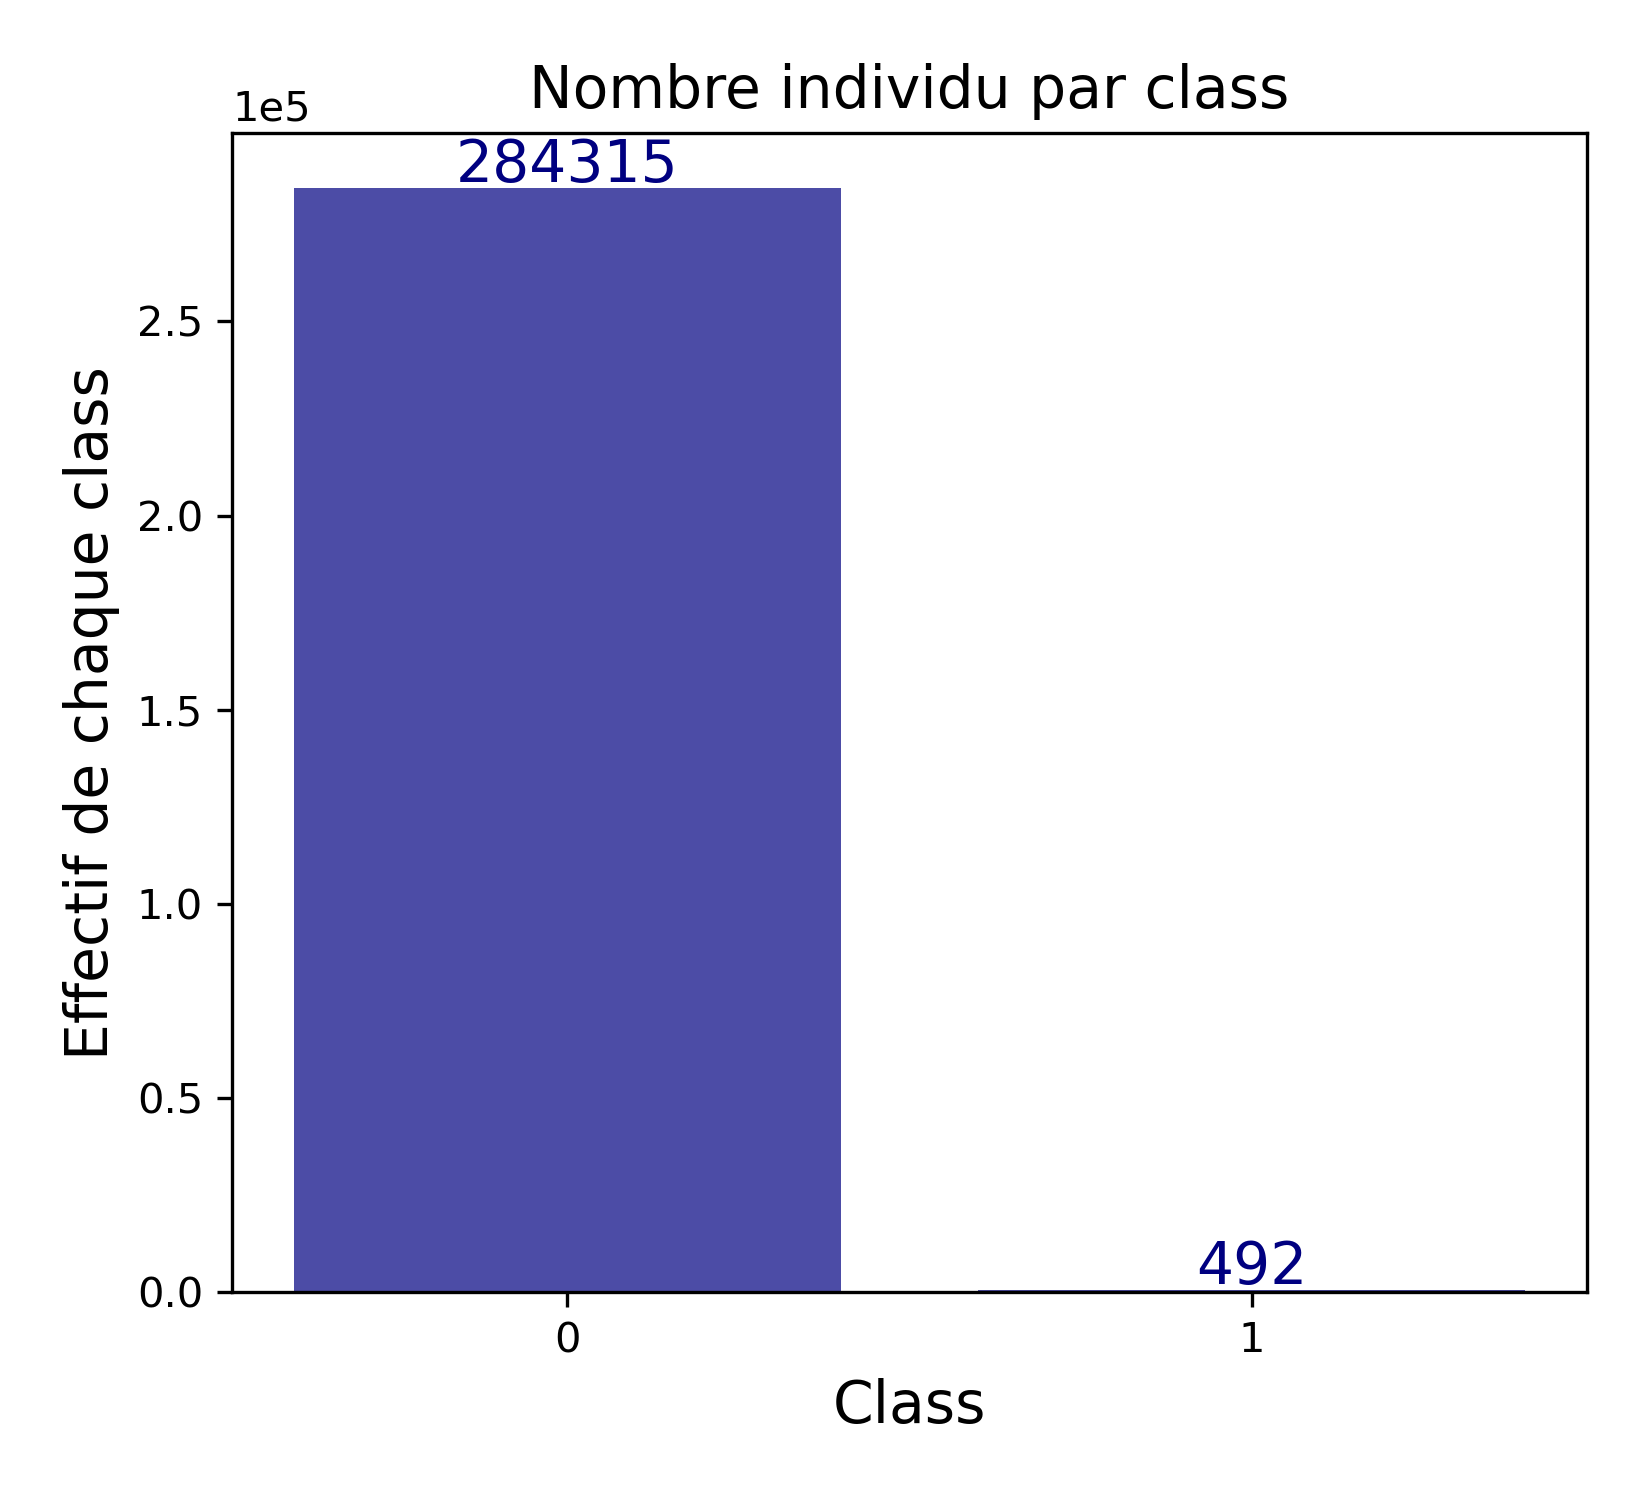
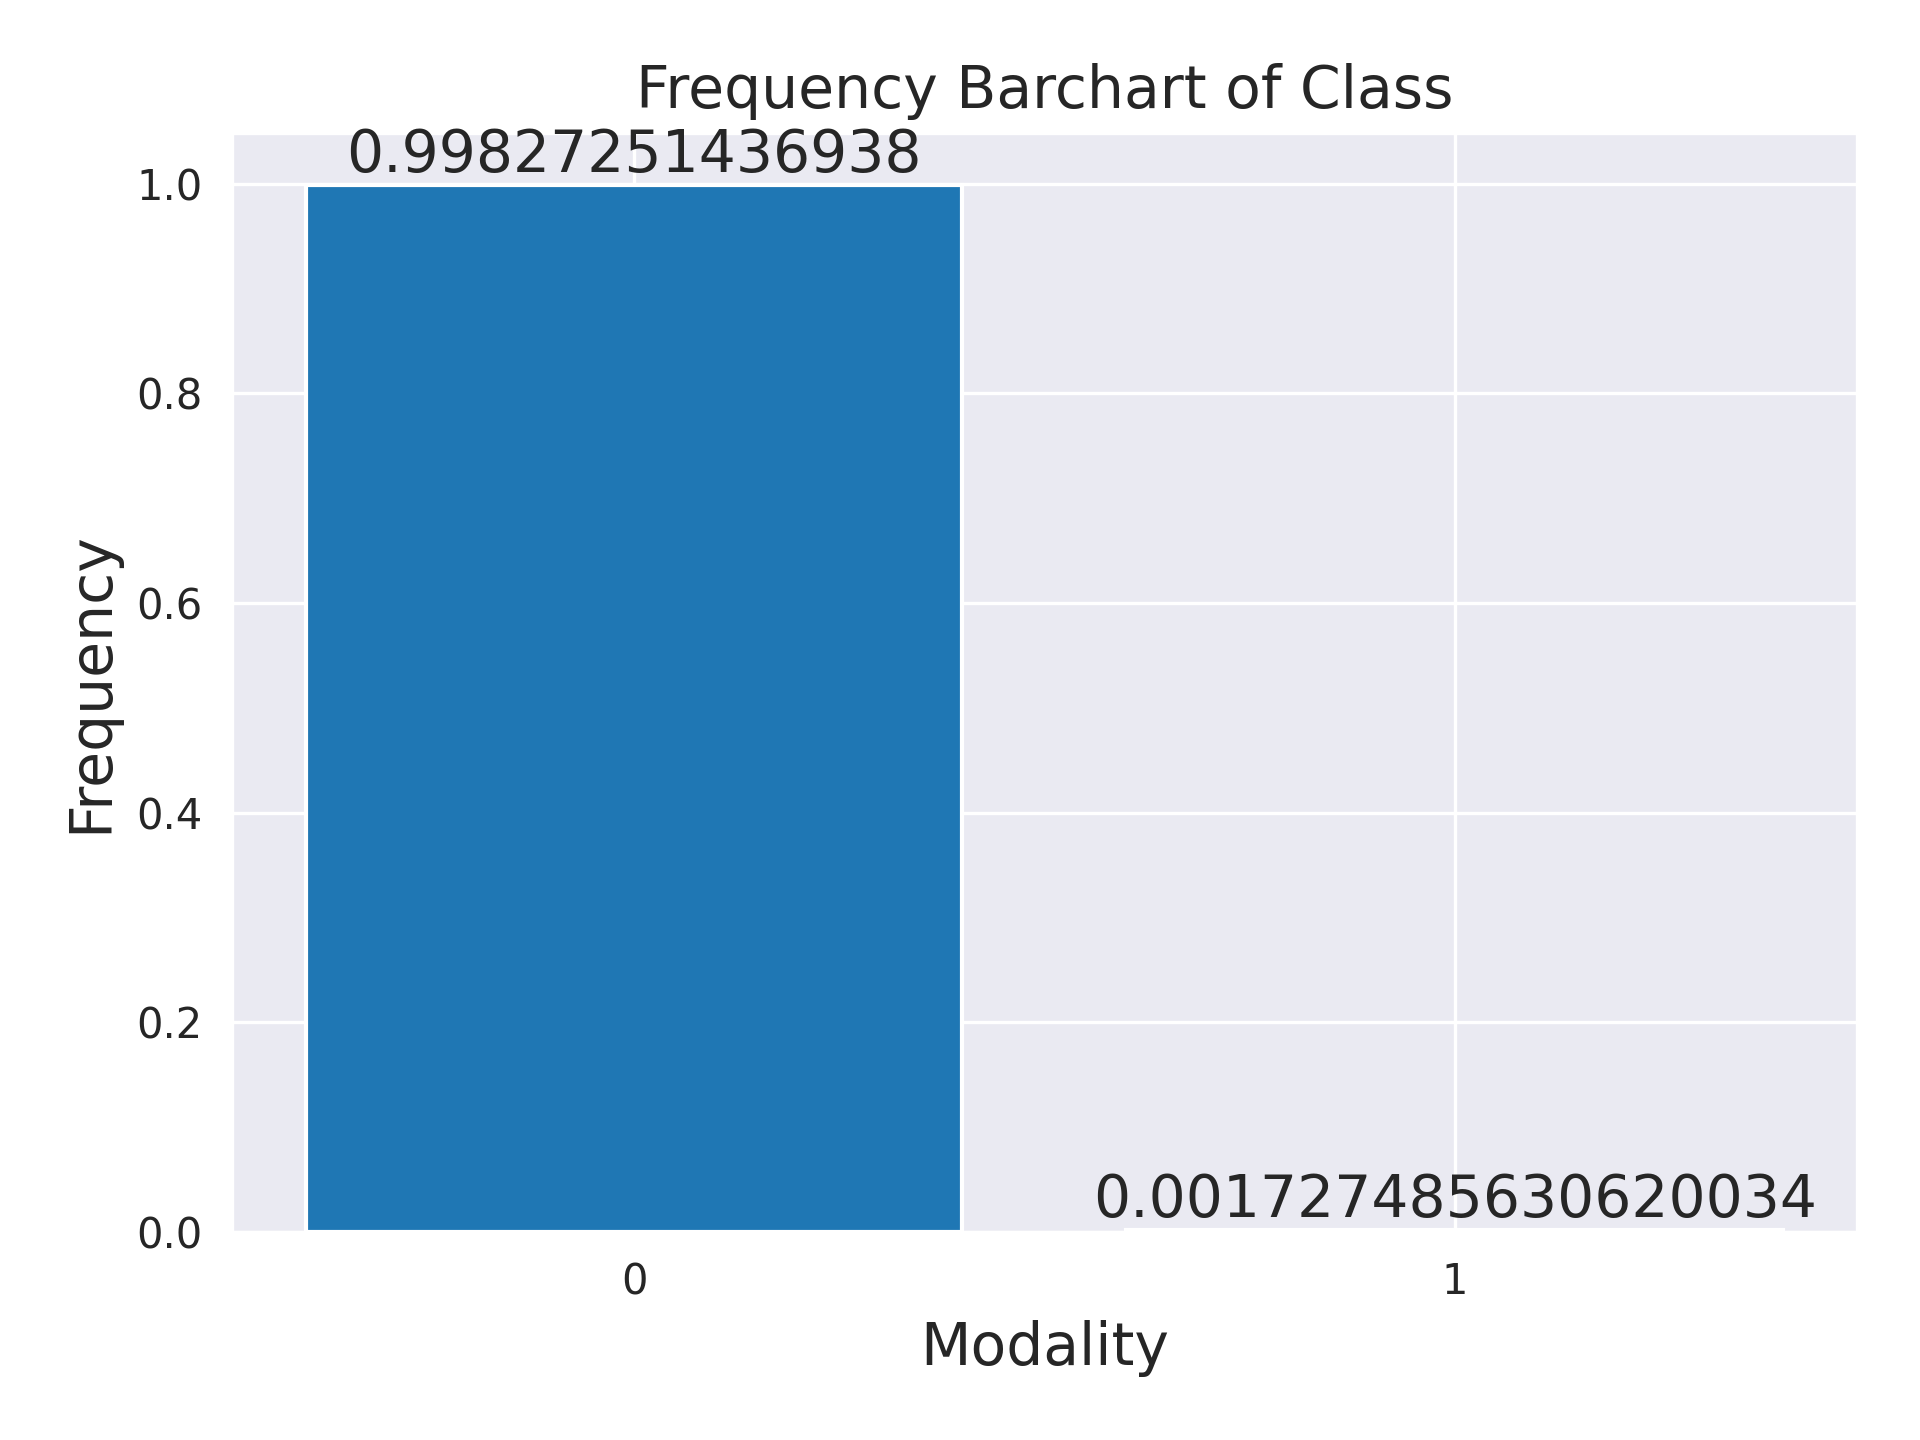
complement

Changed region(s): [[0.0309, 0.0312, 0.9582, 0.9062], [0.4636, 0.9062, 0.6182, 0.9688]]

diff --git a/src/core/Analyser.py b/src/core/Analyser.py
@@ -5,6 +5,7 @@ from sklearn.compose import make_column_selector as selector
 from matplotlib.axes._axes import Axes
 import seaborn as sns
 from scipy.stats import chi2_contingency
+from matplotlib.ticker import FuncFormatter
 
 
 class Analyser:
@@ -15,30 +16,63 @@ class Analyser:
             self,
             df_c: pd.DataFrame
     ) -> dict:
-        qualitatives = selector(dtype_include=object)(df_c)
+        qualitative_features = selector(dtype_include=object)(df_c)
 
-        return {"features":
+        return \
             {
-                "qualitative_columns": qualitatives, \
-                "quantitative_columns": [c for c in df_c if c not in qualitatives]
-            },
-            "describe": df_c.describe(),
-        }
+                "features":
+                    {
+                        "qualitative_columns": qualitative_features,
+                        "quantitative_columns":
+                            [c for c in df_c if c not in qualitative_features]
+                    },
+                "describe": df_c.describe(),
+            }
 
-    def bar_chart(self, df_c: pd.DataFrame, col_name, ax: Axes, with_proportion=False) -> object:
+    def bar_chart(
+            self,
+            df_c: pd.DataFrame,
+            col_name,
+            ax: Axes,
+            with_proportion=False
+    ) -> object:
         summary = self.summary(df_c)
         if not col_name in summary["features"]["qualitative_columns"]:
-            raise Exception(f"{col_name} should be a qualitative colums from {df_c}")
+            raise Exception(f"{col_name} should be a qualitative columns from {df_c}")
         cats_heights = df_c[col_name].value_counts()
         weight = 1 if not with_proportion else 1 / cats_heights.sum()
         cats_heights *= weight
         ax.bar(cats_heights.index, cats_heights.values)
-        ax.set_title(f"Frequency Barchart of {col_name}")
+        ax.xaxis.set_major_formatter(FuncFormatter(lambda x, pos: cats_heights.index[int(x)]))
+
+        y_label = 'Frequency' if with_proportion else 'Counts'
+
+        ax.set_title(f'{y_label} Barchart of {col_name}')
         ax.set_xlabel("Modality")
-        ax.set_ylabel("Frequency")
+        ax.set_ylabel(f'{y_label}')
+
+        # we use ax.set_xticks and pass in a range of integers from 0 to the length of counts.
+        ax.set_xticks(range(len(cats_heights)))
+        # we use ax.set_xticklabels and pass in the index values from counts.
+        # This sets the tick labels to be the same as the original index values in counts.
+        ax.set_xticklabels(cats_heights.index)
+
+        # pour des labels plus compacts
+        ax.ticklabel_format(axis='y', scilimits=(1, 4))
+
+        # annotations
+        for i, j in enumerate(cats_heights):
+            ax.text(i, j+max(cats_heights.values)/80, cats_heights.iloc[i], ha='center')
+
         return cats_heights
 
-    def prop_churn_by_cats(self, df_c: pd.DataFrame, outcome: str, cats_name: str, loc="upper right") -> None:
+    def prop_churn_by_cats(
+            self,
+            df_c: pd.DataFrame,
+            outcome: str,
+            cats_name: str,
+            loc="upper right"
+    ) -> None:
         summary = self.summary(df_c)
         if not cats_name in summary["features"]["qualitative_columns"] or \
                 not outcome in summary["features"]["qualitative_columns"]:
@@ -79,7 +113,8 @@ class Analyser:
             label=[positive_mod, f"Not {positive_mod}"],
             color=["blue", "black"],
             density=density,
-            stacked=True)
+            stacked=True
+        )
         ax.set_title(f"histogram of {numericals_name} conditioned by {outcome}")
         ax.set_ylabel("Density" if density == True else "Count")
         ax.legend(loc=loc)
@@ -95,12 +130,17 @@ class Analyser:
         summary = self.summary(df_c)
         if not numericals_name in summary["features"]["quantitative_columns"] or \
                 not outcome in summary["features"]["qualitative_columns"]:
-            raise Exception(f"{outcome} should be a qualitative columns  and \
-                {numericals_name} should be a quantitative column from {df_c}")
+            raise Exception(
+                f"{outcome} should be a qualitative columns  and \
+                {numericals_name} should be a quantitative column from {df_c}"
+            )
+
         mask_churn = df_c[outcome] == positive_mod
         churn = df_c.loc[mask_churn][numericals_name].copy()
         non_churn = df_c.loc[~mask_churn][numericals_name].copy()
+
         ax.boxplot([np.array(churn).reshape(-1), np.array(non_churn).reshape(-1)])
+
         ax.set_xticklabels([positive_mod, f"Not{positive_mod}"])
         ax.set_title(f"Boxplot of {numericals_name} conditioned by {outcome}")
 

diff --git a/src/core/Processing.py b/src/core/Processing.py
@@ -33,13 +33,35 @@ class Processing:
             self,
             df: pd.DataFrame
     ) -> dict:
-        constant_features = [c for c in df.columns if df[c].min() == df[c].max()]
-        return {
-            "Missing Values": df.isna().sum(),
-            "Constant Features": constant_features
-        }
+        """
+        function that give an overview of missing value and constant features
+        :param df:
+        :return:
+            dictionary {
+            column : number of missing value
+            constant features : [list of features]
+            }
 
-    def remove_constant_features(self, df: pd.DataFrame) -> pd.DataFrame:
+        """
+
+        # simple mathematical rule checking
+        constant_features = [c for c in df.columns if df[c].min() == df[c].max()]
+        return \
+            {
+                "Missing Values": df.isna().sum(),
+                "Constant Features": constant_features
+            }
+
+    def remove_constant_features(
+            self,
+            df: pd.DataFrame
+    ) -> pd.DataFrame:
+        """
+        function help to remove if required constant features
+        :param df:
+        :return:
+            new dqta frame
+        """
         return df[[c for c in df.columns if c not in self.summary(df)["Constant Features"]]]
 
     def remove_outliers(
@@ -47,11 +69,27 @@ class Processing:
             df: pd.DataFrame,
             threshold=1.5
     ) -> pd.DataFrame:
+        """
+        help function to remove outliers with statistical method
+
+        :param df:
+        :param threshold:
+        :return:
+            new data frame
+        """
+
         qualitatives = selector(dtype_include=object)(df)
         quantitatives = [c for c in df.columns if c not in qualitatives]
 
         def quantile(s):
+            """
+            help function that compute quantile of distributiion
+            :param s:
+            :return:
+            """
+            # we need to restric to all dataframe derived
             assert isinstance(s, pd.Series)
+
             q_025 = s.quantile(.25)
             q_075 = s.quantile(.75)
             iq = q_075 - q_025

diff --git a/src/core/Model.py b/src/core/Model.py
@@ -41,6 +41,7 @@ class Model:
     def fit(self, X, y):
         self.model.fit(X, y)
 
+    # ============>>>>> Some BUG HERE <<<<<<<<=================
     def predict_proba(self, X):
         if self.model_name == "SVM":
             dist_to_hyperplan = self.model.decision_function(X)
@@ -56,8 +57,12 @@ class Model:
         return self.model.predict(X)
 
     def metrics(self, X, y, plot_roc=False, ax: Axes = False):
-        precision, recall, f1_score, support = precision_recall_fscore_support(y, self.predict(X), average="binary",
-                                                                               pos_label=True)
+        precision, recall, f1_score, support = precision_recall_fscore_support(
+            y,
+            self.predict(X),
+            average="binary",
+            pos_label=True
+        )
         fpr, tpr, thresholds = roc_curve(y, self.predict_proba(X))
         auc_value = auc(fpr, tpr)
         if plot_roc:

diff --git a/src/core/ComputeModel.py b/src/core/ComputeModel.py
@@ -29,13 +29,14 @@ class ComputeModel:
         if not self.grid_search:
             self.model = Model(model_name, hyperparameters=hyperparameters)
         else:
-            self.params_grid = PARAMS_GRID[model_name] if params_grid == None else params_grid
+            self.params_grid = PARAMS_GRID[model_name] if params_grid is None else params_grid
             self.model = Model(
                 model_name,
                 grid_search=GridSearchCV(Model(model_name).model,
                                          self.params_grid,
                                          verbose=verbose,
-                                         cv=cv))
+                                         cv=cv)
+            )
         self.process = process
         self.l_order = l_order
         modalities_y = pd.unique(self.y)
